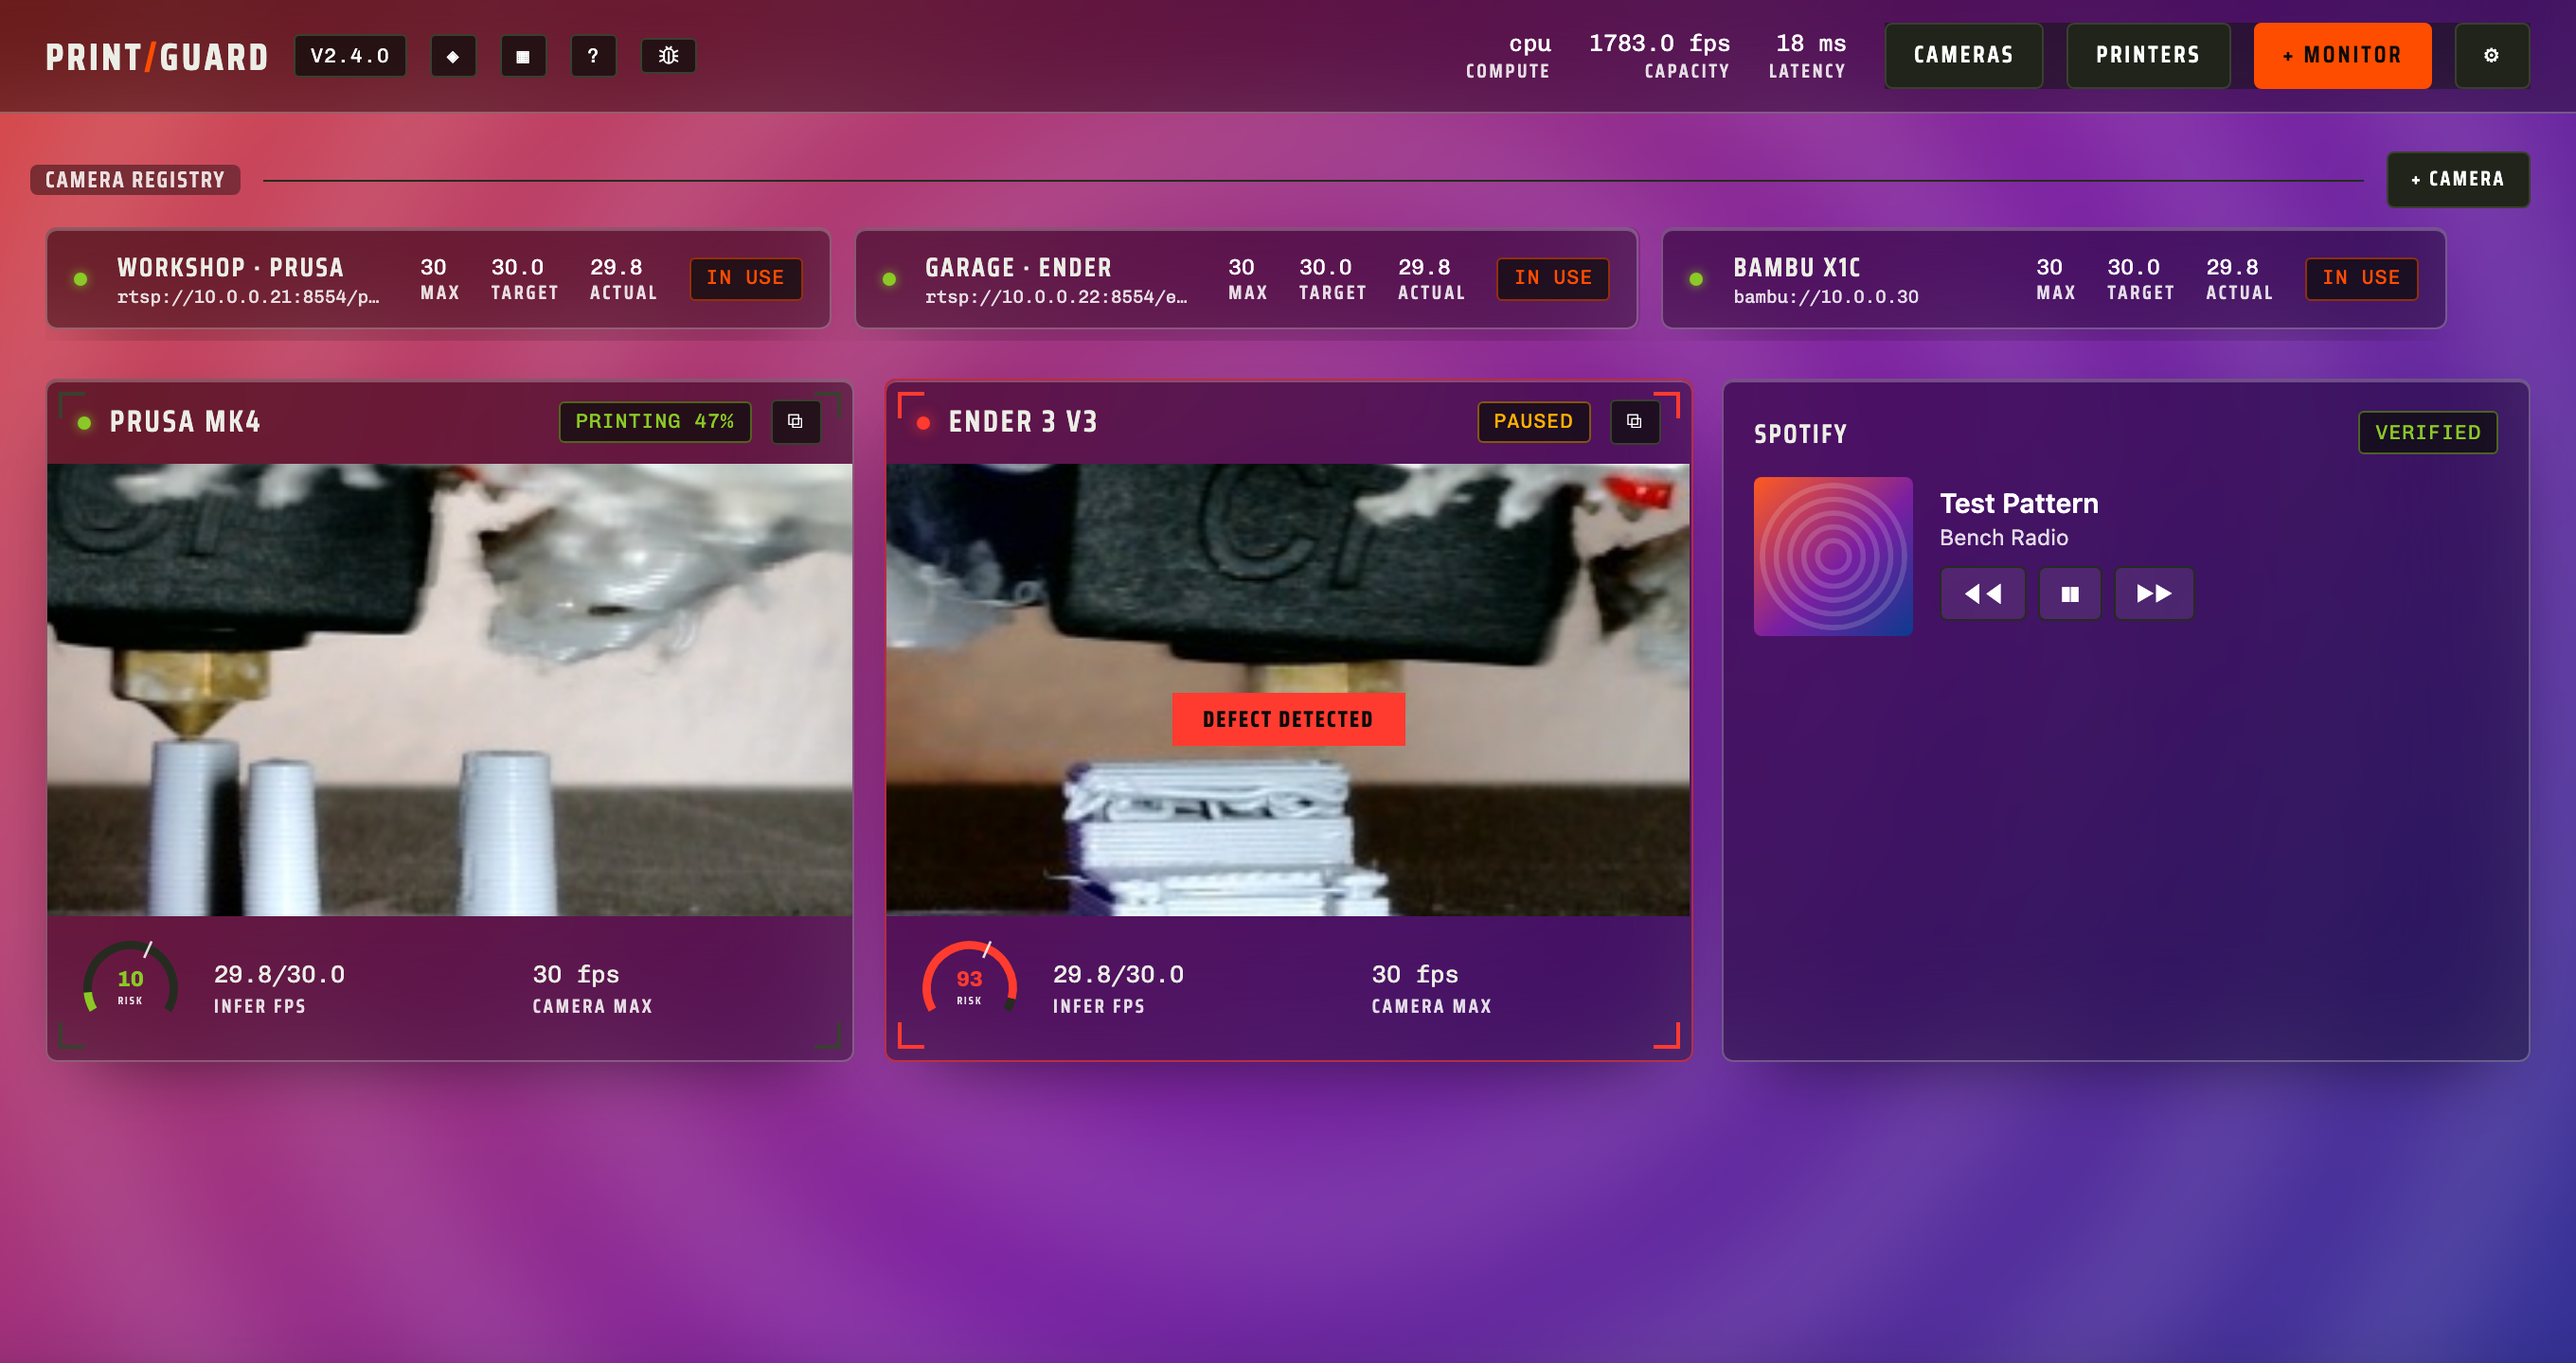
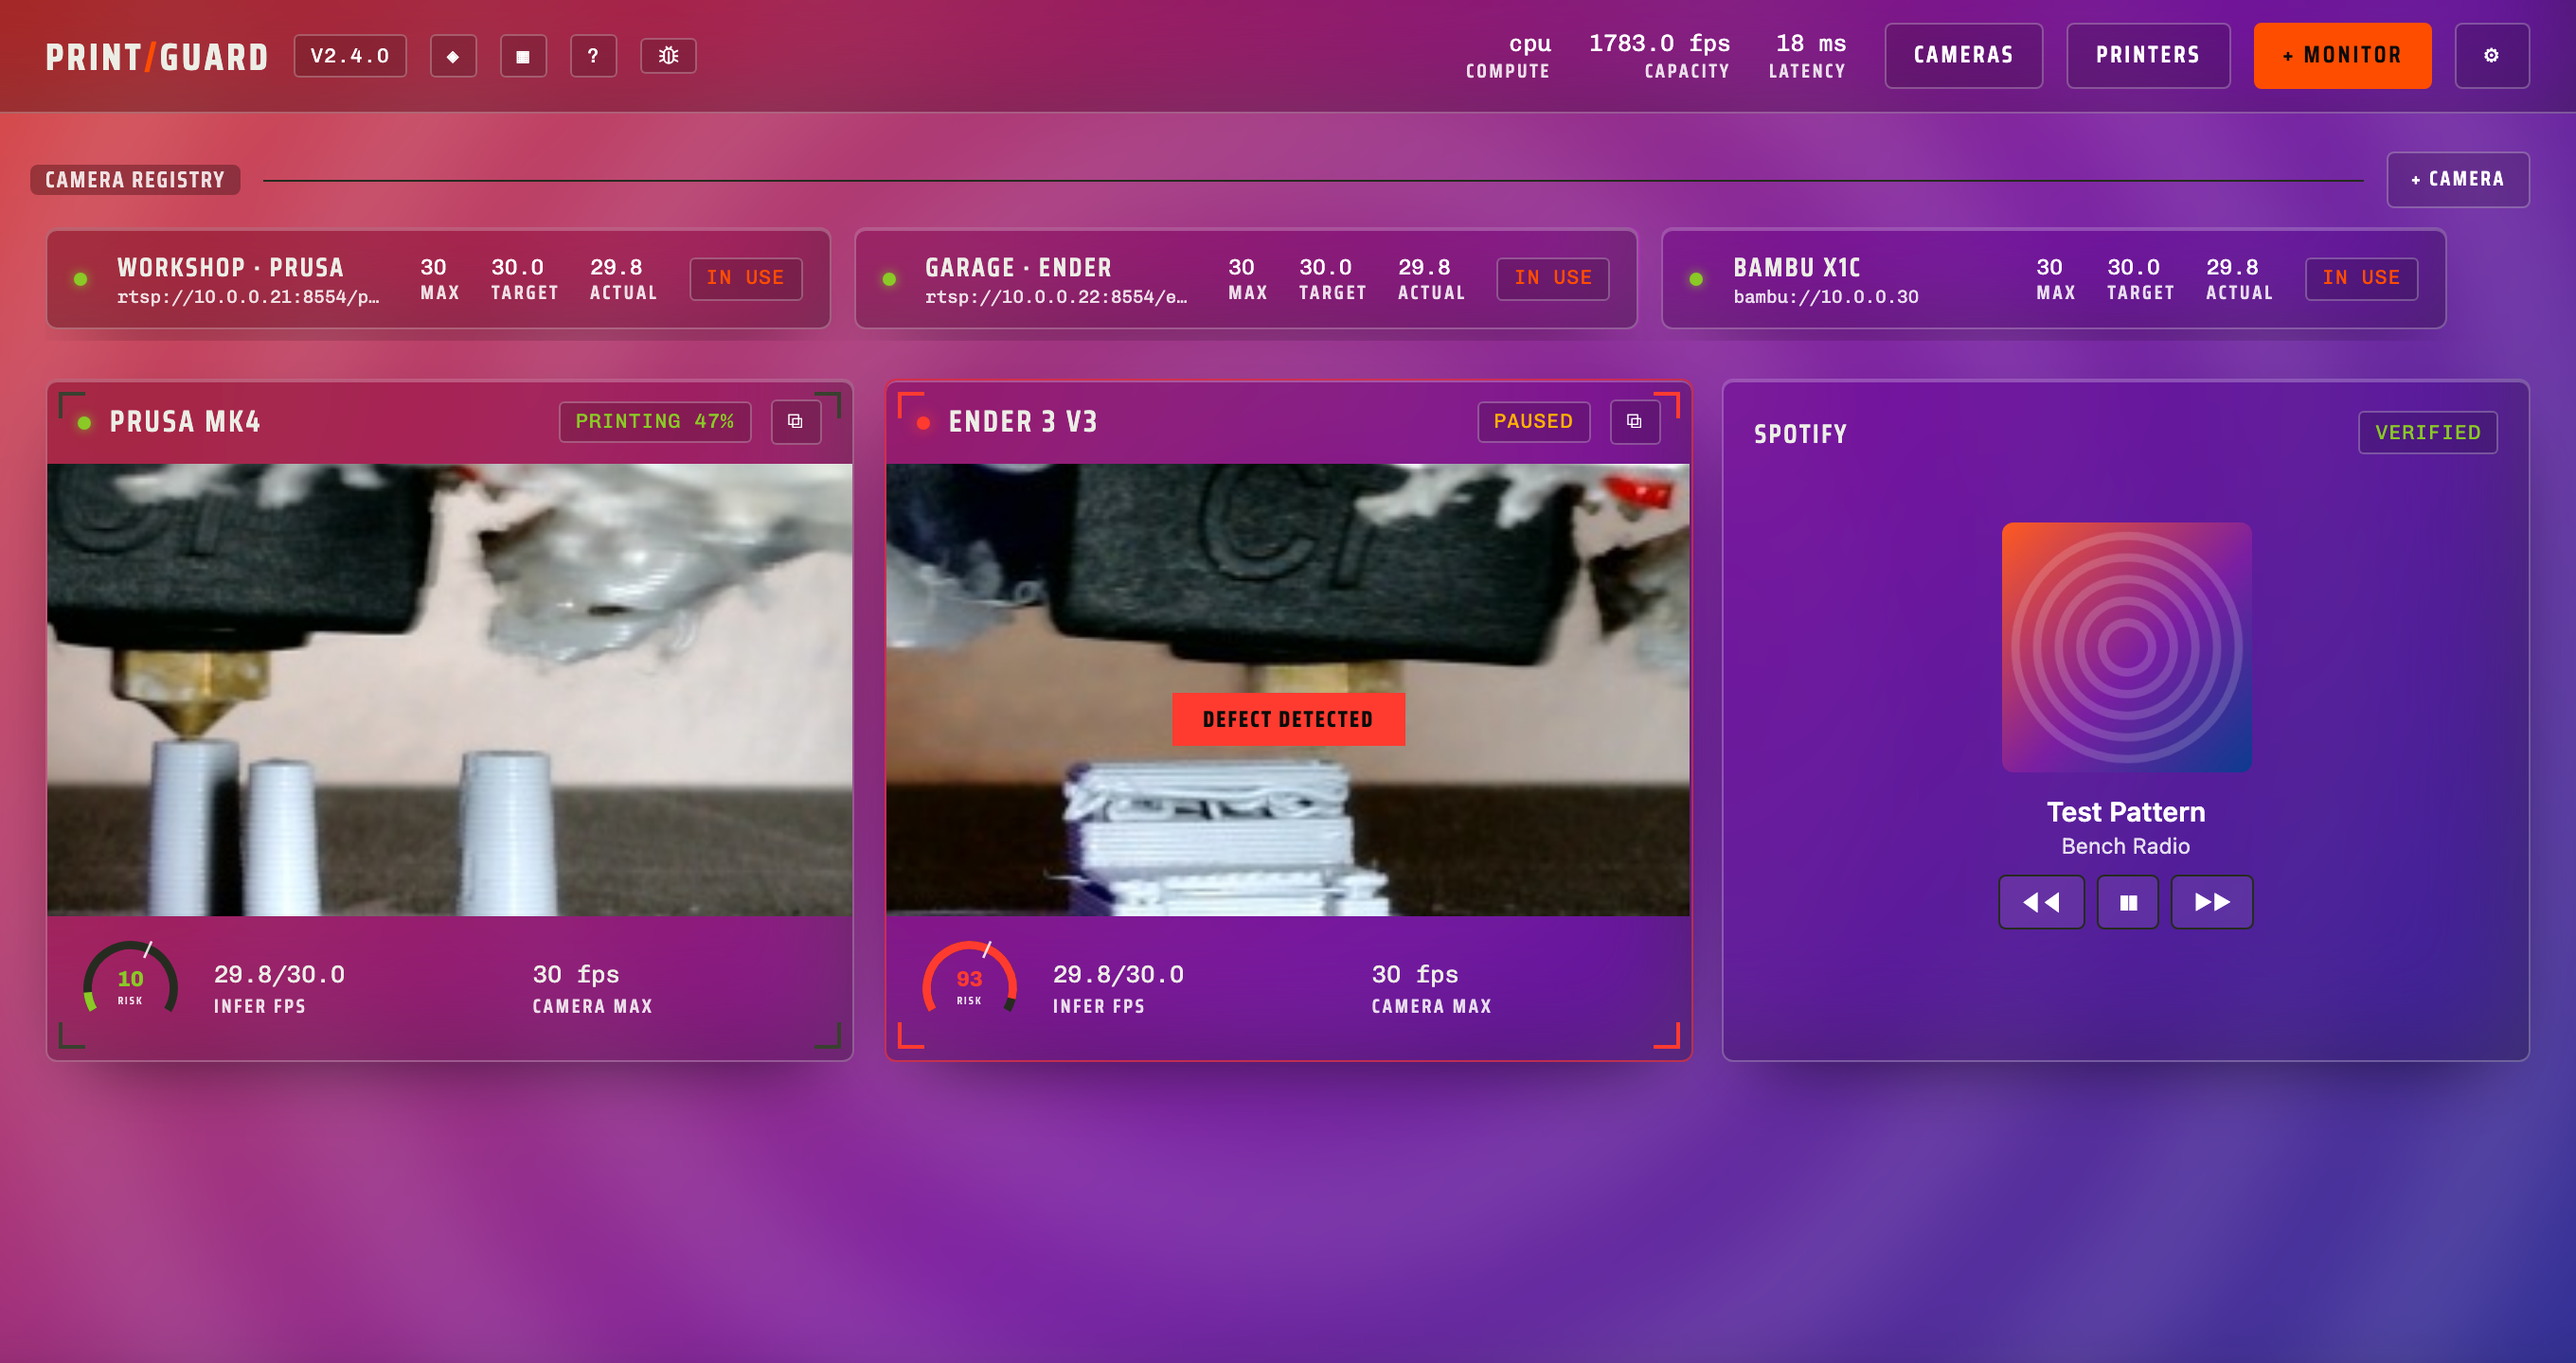
Stack the Spotify panel under its album art, centred in its tile

diff --git a/web/src/components/PluginPanel.tsx b/web/src/components/PluginPanel.tsx
@@ -79,11 +79,11 @@ export function PluginPanel({ plugin }: { plugin: PluginRecord }) {
           <span className={`chip ${plugin.verified ? "chip-ok" : ""}`}>{plugin.verified ? "verified" : "third party"}</span>
         )}
       </div>
-      {body}
+      <div className="flex flex-1 flex-col justify-center">{body}</div>
     </>
   );
 
-  if (!customising) return <section className="panel p-4 space-y-3">{content()}</section>;
+  if (!customising) return <section className="panel flex flex-col gap-3 p-4">{content()}</section>;
 
   return (
     <SortableItem id={plugin.id}>
@@ -91,7 +91,7 @@ export function PluginPanel({ plugin }: { plugin: PluginRecord }) {
         <section
           ref={handle.setNodeRef}
           style={handle.style}
-          className={`panel p-4 space-y-3 ${pinned ? "!border-accent" : ""} ${handle.isDragging ? "z-10 opacity-90 shadow-xl" : ""}`}
+          className={`panel flex flex-col gap-3 p-4 ${pinned ? "!border-accent" : ""} ${handle.isDragging ? "z-10 opacity-90 shadow-xl" : ""}`}
         >
           {content(handle)}
         </section>

diff --git a/plugins/spotify/panel.html b/plugins/spotify/panel.html
@@ -13,28 +13,33 @@
   /* PrintGuard injects its theme tokens on :root before this, and the tile the
      panel sits in already paints the background, so nothing here sets a colour
      of its own. */
+  /* The tile centres the panel, and the padding below it lifts the stack a
+     little above the middle. */
   body {
+    align-items: center;
     color: var(--color-text-0);
     display: flex;
+    flex-direction: column;
     font-family: var(--font-body);
-    gap: 14px;
+    gap: 12px;
+    padding-bottom: 26px;
+    text-align: center;
   }
   #cover {
-    border-radius: 4px;
-    height: 84px;
+    border-radius: 6px;
+    height: 132px;
     object-fit: cover;
-    width: 84px;
+    width: 132px;
   }
   #cover:not([src]) {
     background: color-mix(in srgb, var(--color-text-2) 20%, transparent);
   }
   .now {
+    align-items: center;
     display: flex;
-    flex: 1;
     flex-direction: column;
-    justify-content: center;
     gap: 3px;
-    min-width: 0;
+    max-width: 100%;
   }
   #title {
     font-size: 0.9rem;
